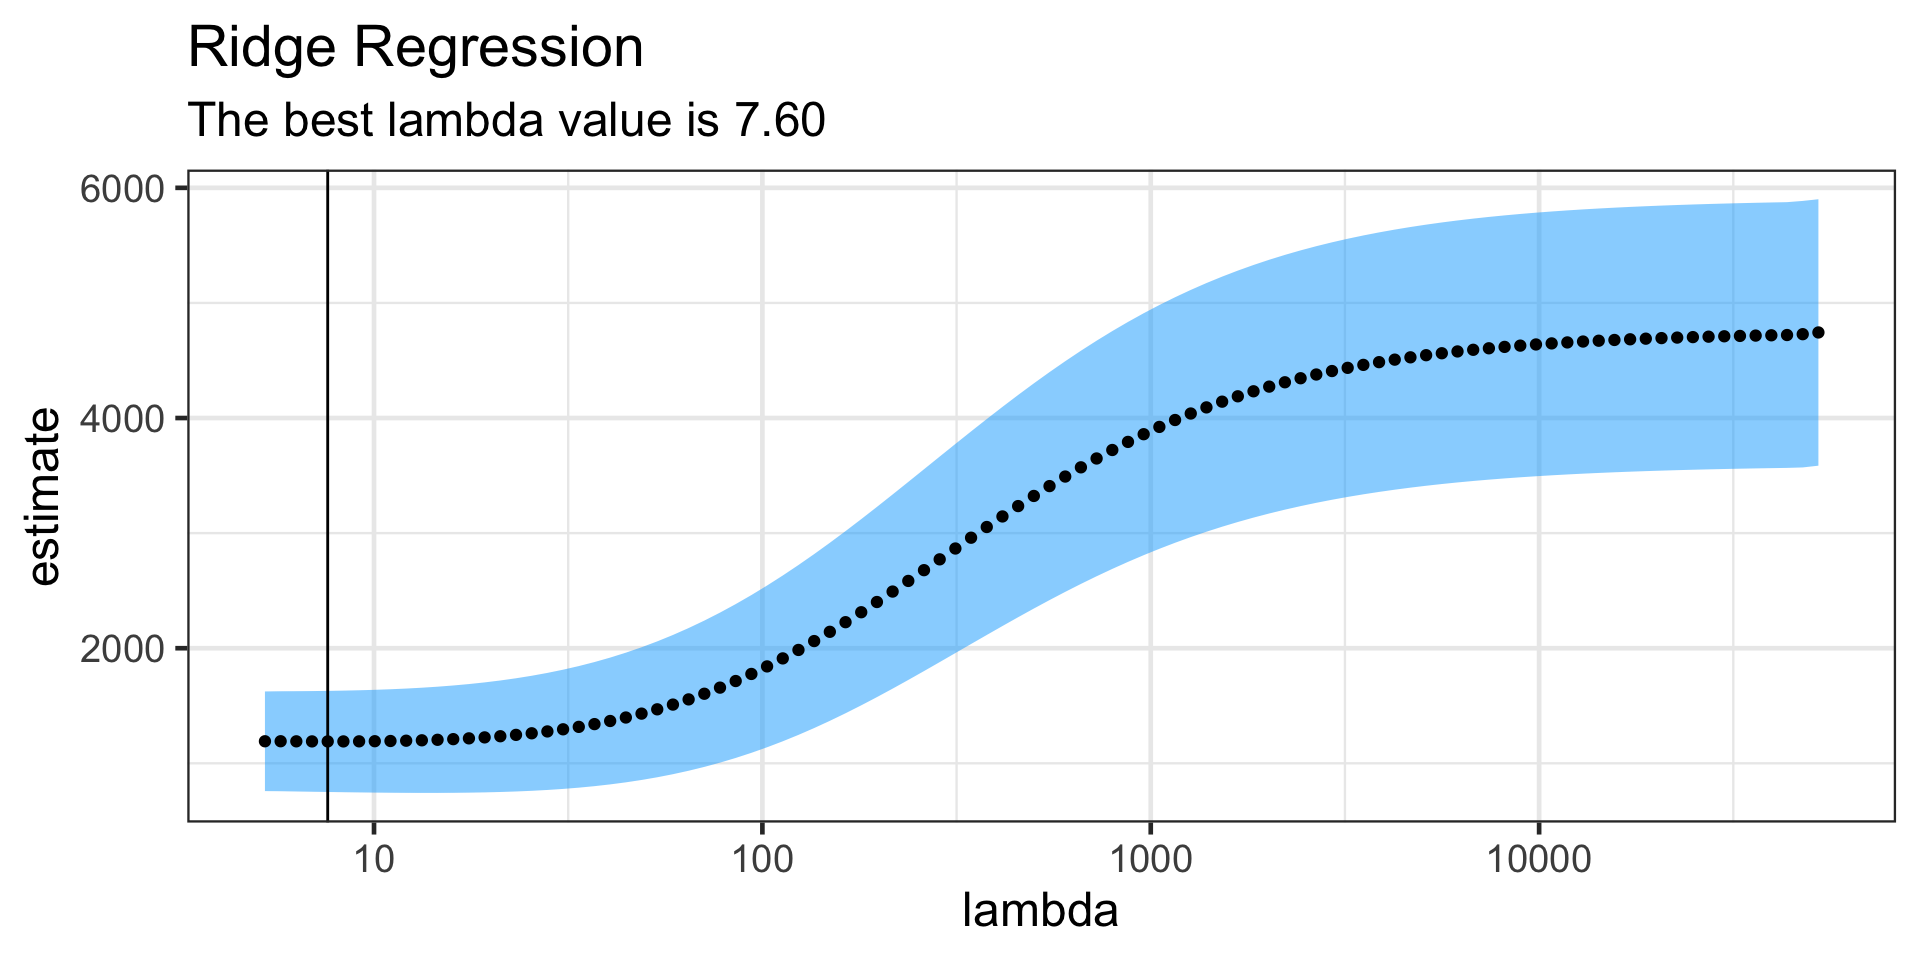
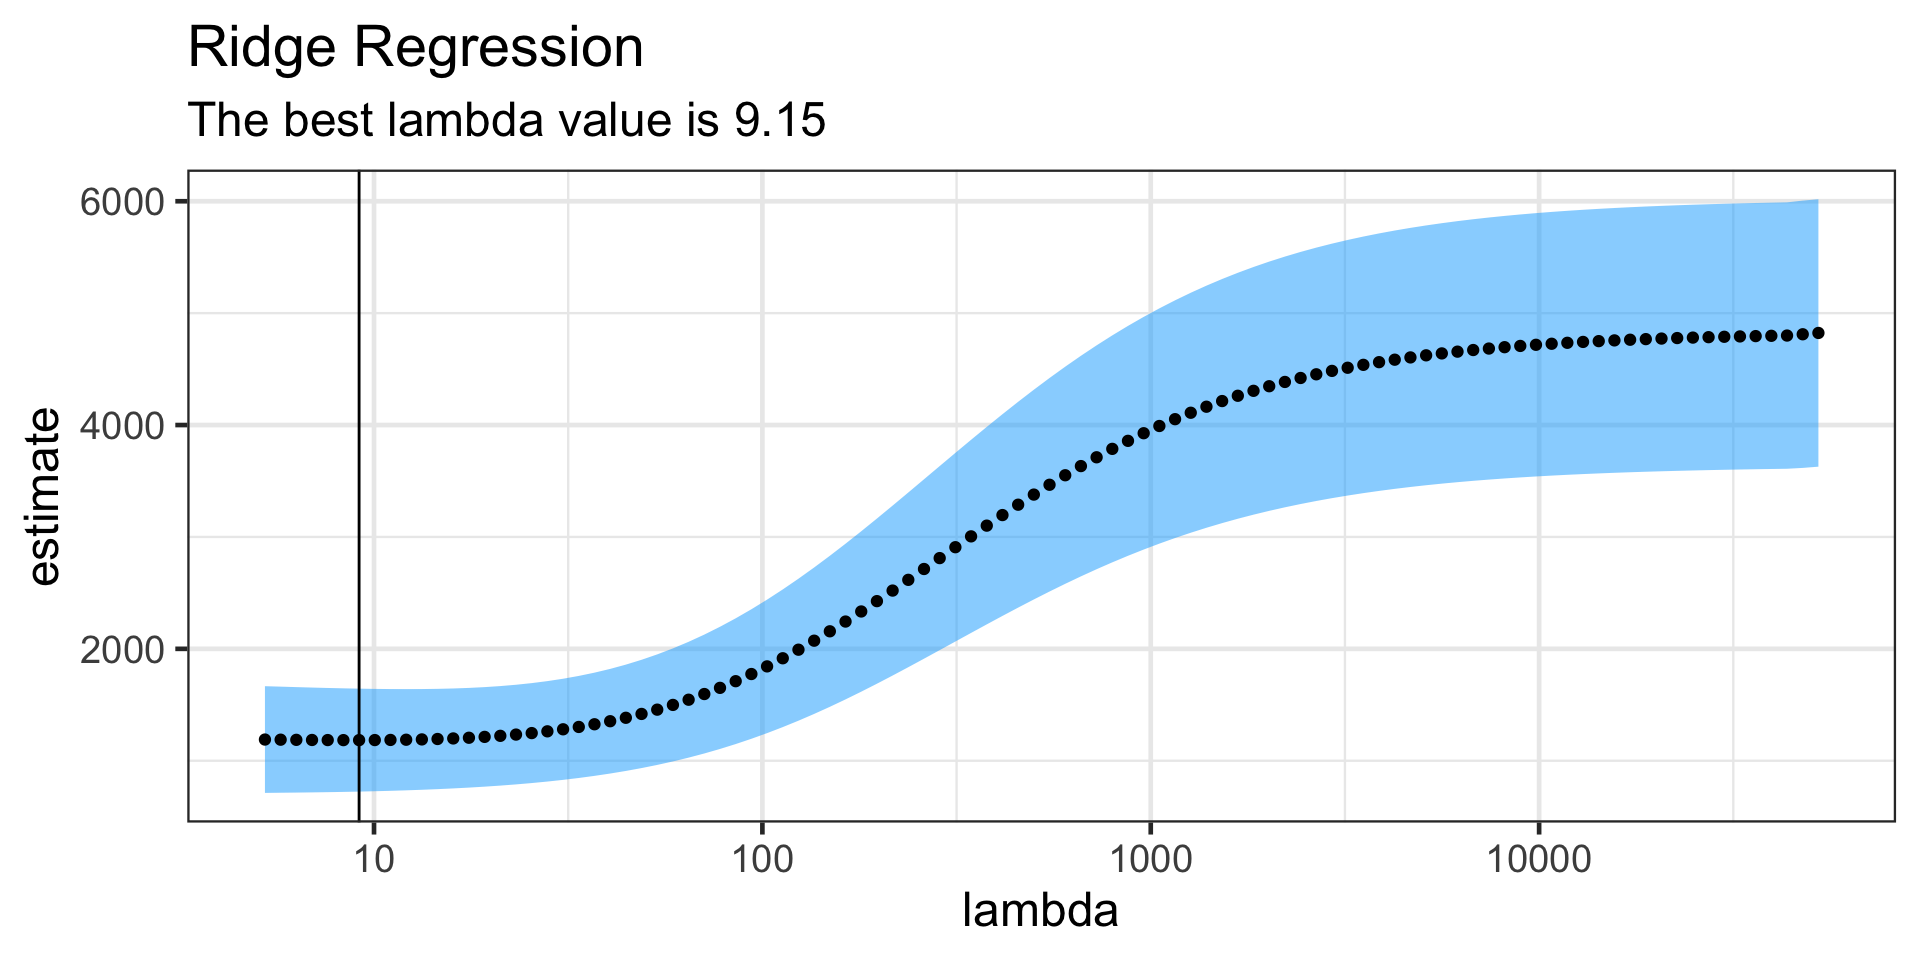
Built site for gh-pages

diff --git a/slides/BSMM_8740_lec_03.html b/slides/BSMM_8740_lec_03.html
@@ -348,11 +348,16 @@ f(x,y;x_0,y_0) &amp; =f(x_{0},y_{0})+f_{x}(x_{0},y_{0})(x-x_{0})+f_{y}(x_{0},y_{
 <aside><ol class="aside-footnotes"><li id="fn2"><p>In the 1D case, the constant is often explicit and the RHS of the regression equation is written as <span class="math inline">\(1+\beta\mathbf{x}\)</span>, which estimates two coefficients <span class="math inline">\(\beta_0, \beta_1\)</span>.</p></li></ol></aside></section>
 <section id="linear-regression-models-6" class="slide level2">
 <h2>Linear regression models</h2>
+<div style="font-size: xx-large">
 <p>Recall that the one dimensional Normal/Gaussian probability density (aka likelihood) for outcome <span class="math inline">\(y_n\)</span> and mean <span class="math inline">\(\beta x_n\)</span> is:</p>
 <p><span class="math display">\[
-\pi\left(y_n;\mu=\beta x_n,\sigma^2\right)=\mathscr{N}\left(y_n;\mu=\beta x_n,\sigma^2\right)=\frac{1}{\sqrt{2\pi\sigma^2}}e^{\frac{1}{2}\frac{(y_n-\beta x_n)^2}{\sigma^2}}
+\begin{align*}
+\pi\left(y_{n};\mu=\beta x_{n},\sigma^{2}\right) &amp; =\mathscr{N}\left(y_{n};\mu=\beta x_{n},\sigma^{2}\right)\\
+&amp; =\frac{1}{\sqrt{2\pi\sigma^{2}}}e^{-\frac{1}{2}\frac{(y_{n}-\beta x_{n})^{2}}{\sigma^{2}}}
+\end{align*}
 \]</span></p>
 <p>And the likelihood of multiple observations is the product of the likelihoods for each observation.</p>
+</div>
 </section>
 <section id="linear-regression-models-7" class="slide level2">
 <h2>Linear regression models</h2>
@@ -576,7 +581,7 @@ Q'QR\beta &amp; = Q'y\\
 <span id="cb10-6"><a></a><span class="sc">&gt;</span> <span class="fu">cat</span>(<span class="st">"vector y</span><span class="sc">\n</span><span class="st">"</span>)</span>
 <span id="cb10-7"><a></a><span class="sc">&gt;</span> y <span class="ot">&lt;-</span> A <span class="sc">%*%</span> x ; y</span></code><button title="Copy to Clipboard" class="code-copy-button"><i class="bi"></i></button></pre></div>
 </details>
-<div class="cell quarto-layout-panel" data-layout-align="center" data-layout-nrow="3">
+<div class="cell quarto-layout-panel" data-layout-nrow="3" data-layout-align="center">
 <div class="quarto-layout-row">
 <div class="cell-output cell-output-stdout quarto-layout-cell" style="flex-basis: 50.0%;justify-content: center;">
 <pre><code>matrix A</code></pre>

diff --git a/slides/BSMM_8740_lec_04.html b/slides/BSMM_8740_lec_04.html
@@ -946,7 +946,7 @@ Prediction Class1 Class2
 <span id="cb52-12"><a></a><span class="sc">+</span>   , <span class="at">estimate =</span> predicted</span>
 <span id="cb52-13"><a></a><span class="sc">+</span> )</span></code><button title="Copy to Clipboard" class="code-copy-button"><i class="bi"></i></button></pre></div>
 </details>
-<div class="cell quarto-layout-panel" data-layout-ncol="2" data-layout-align="center">
+<div class="cell quarto-layout-panel" data-layout-align="center" data-layout-ncol="2">
 <div class="quarto-layout-row">
 <div class="cell-output cell-output-stdout quarto-layout-cell" style="flex-basis: 50.0%;justify-content: center;">
 <pre><code># A tibble: 3 × 3
@@ -4777,7 +4777,7 @@ Prediction Class1 Class2
 <p>R repetitions of V-fold cross-validation reduces the standard error variance by a factor of <span class="math inline">\(1/\sqrt{\text{R}}\)</span>.</p>
 </div>
 <div class="sourceCode cell-code" id="cb76"><pre class="sourceCode numberSource r number-lines code-with-copy"><code class="sourceCode r"><span id="cb76-1"><a></a><span class="sc">&gt;</span> rsample<span class="sc">::</span><span class="fu">vfold_cv</span>(ames_train, <span class="at">v =</span> <span class="dv">10</span>, <span class="at">repeats =</span> <span class="dv">5</span>) </span></code><button title="Copy to Clipboard" class="code-copy-button"><i class="bi"></i></button></pre></div>
-<div class="cell quarto-layout-panel" data-layout-ncol="2" data-layout-align="center">
+<div class="cell quarto-layout-panel" data-layout-align="center" data-layout-ncol="2">
 <div class="quarto-layout-row">
 <div class="cell-output cell-output-stdout quarto-layout-cell" style="flex-basis: 50.0%;justify-content: center;">
 <pre><code>#  10-fold cross-validation repeated 5 times 
@@ -4817,7 +4817,7 @@ Prediction Class1 Class2
 <p>A bootstrap sample of the training set is a sample that is the same size as the training set but is drawn <em>with replacement.</em></p>
 <p>When bootstrapping, the assessment set is often called the&nbsp;<em>out-of-bag</em>&nbsp;sample.</p>
 <div class="sourceCode cell-code" id="cb78"><pre class="sourceCode numberSource r number-lines code-with-copy"><code class="sourceCode r"><span id="cb78-1"><a></a><span class="sc">&gt;</span> rsample<span class="sc">::</span><span class="fu">bootstraps</span>(ames_train, <span class="at">times =</span> <span class="dv">5</span>)</span></code><button title="Copy to Clipboard" class="code-copy-button"><i class="bi"></i></button></pre></div>
-<div class="cell quarto-layout-panel" data-layout-ncol="2" data-layout-align="center">
+<div class="cell quarto-layout-panel" data-layout-align="center" data-layout-ncol="2">
 <div class="quarto-layout-row">
 <div class="cell-output cell-output-stdout quarto-layout-cell" style="flex-basis: 50.0%;justify-content: center;">
 <pre><code># Bootstrap sampling 

diff --git a/scrolly/tidymodels.html b/scrolly/tidymodels.html
@@ -5850,10 +5850,10 @@ display: none;
       <!-- user-provided yaml closeread style options -->
       <style>
 :root {
---cr-narrative-text-color-sidebar: green;
---cr-section-background-color: white;
---cr-narrative-outer-margin: 0.45;
 --cr-narrative-background-color-overlay: yellow;
+--cr-section-background-color: white;
+--cr-narrative-text-color-sidebar: green;
+--cr-narrative-outer-margin: 0.45;
 }
 </style>
     

diff --git a/misc/weekly.html b/misc/weekly.html
@@ -612,7 +612,7 @@ ul.task-list li input[type="checkbox"] {
 <li><label><input type="checkbox" checked="">weekly lab</label></li>
 <li><label><input type="checkbox" checked="">weekly lab solutions</label></li>
 <li><label><input type="checkbox" checked="">weekly lab repo</label></li>
-<li><label><input type="checkbox">weekly lab invite</label></li>
+<li><label><input type="checkbox" checked="">weekly lab invite</label></li>
 </ul>
 </section>
 <section id="week-4" class="level2">